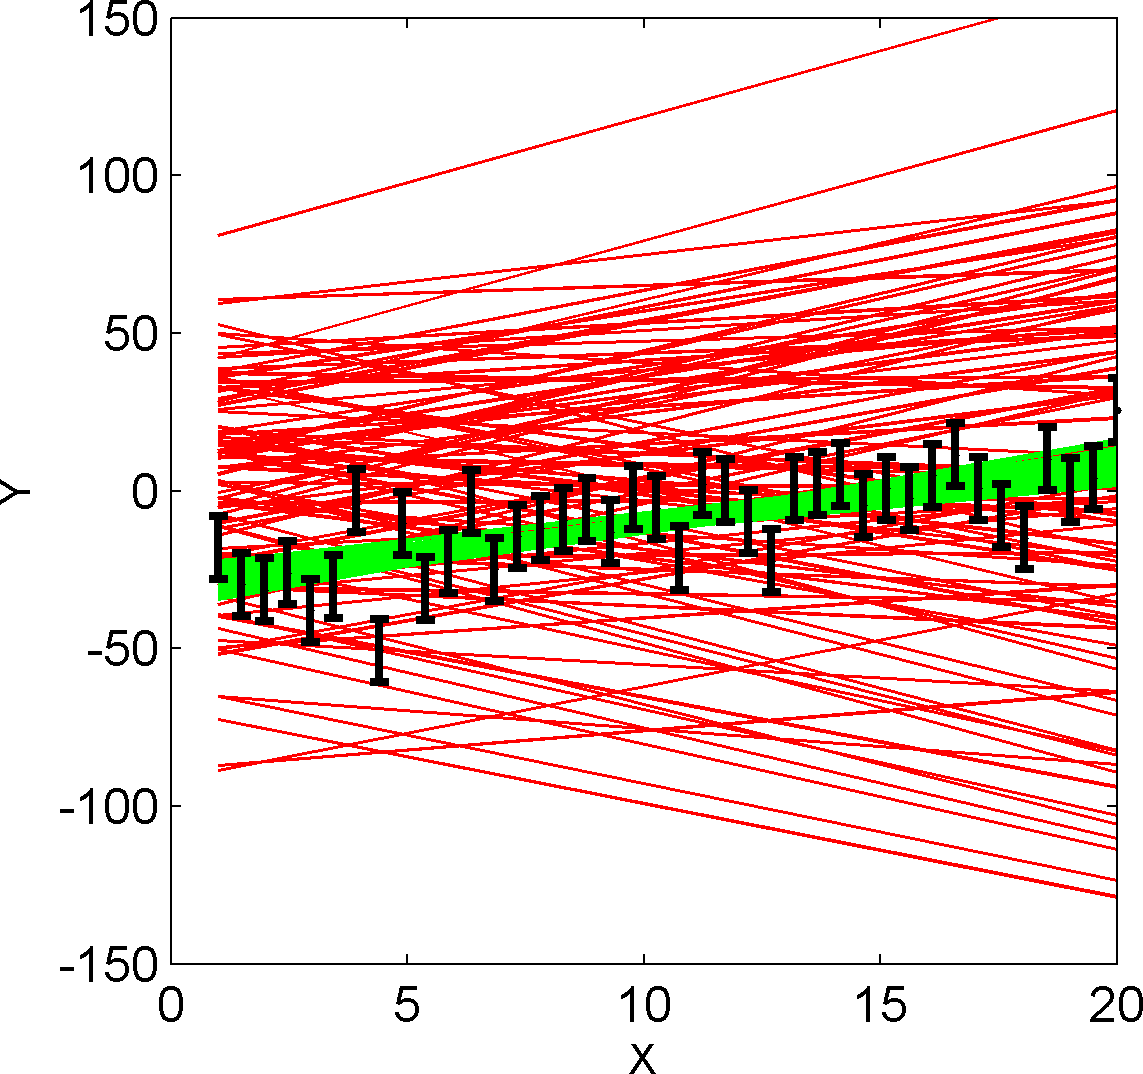
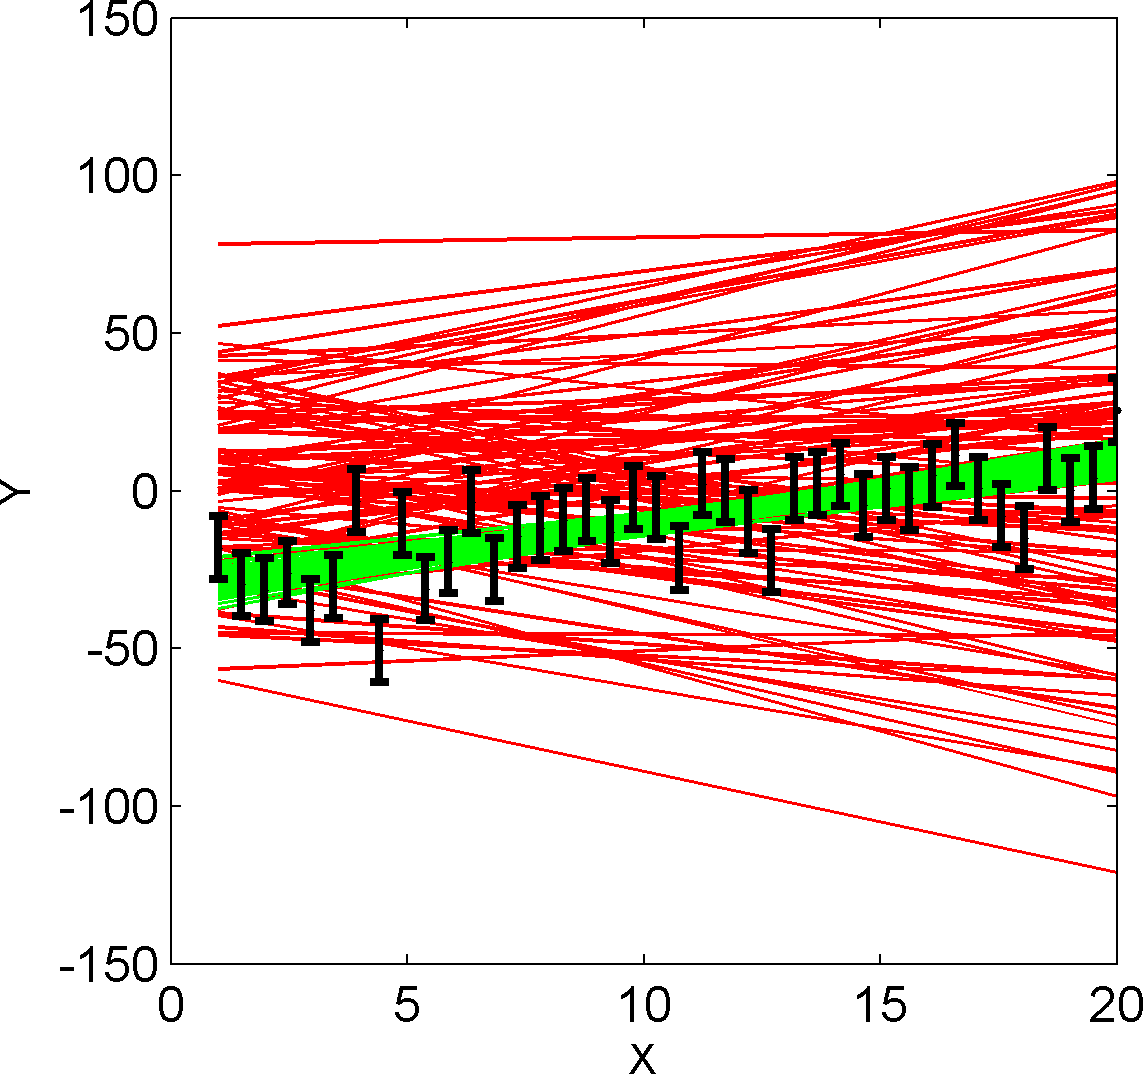
Cleaning up sippi_line_fit.m

Changed region(s): [[0.1837, 0.1536, 0.9799, 0.8296], [0.1837, 0.7067, 0.245, 0.7374]]

diff --git a/examples/case_line_fit/sippi_line_fit.m b/examples/case_line_fit/sippi_line_fit.m
@@ -1,11 +1,20 @@
-% Fiting line using SIPPI
+% sippi_linefit: Fiting straight line using SIPPI
 clear all;close all
 rand('seed',1);randn('seed',1);
 
 %% Setting up the prior model
 
-% the gradient
+
+% the intercept
 im=1;
+prior{im}.type='gaussian';
+prior{im}.name='intercept';
+prior{im}.m0=0;
+prior{im}.std=30;
+prior{im}.m_true=-30;
+
+% 1st order, the gradient
+im=2;
 prior{im}.type='gaussian';
 prior{im}.name='gradient';
 prior{im}.m0=0;
@@ -13,25 +22,15 @@ prior{im}.std=4;
 prior{im}.norm=80;
 prior{im}.m_true=2;
 
-% the intercept
-im=im+1;
-prior{im}.type='gaussian';
-prior{im}.name='intercept';
-prior{im}.m0=0;
-prior{im}.std=30;
-prior{im}.m_true=-30;
-
-prior=sippi_prior_init(prior);
-
 %% Setup the forward model in the 'forward' structure
 nd=40;
 forward.x=linspace(1,20,nd)';
 forward.forward_function='sippi_forward_linefit';
 
 %% Set up the 'data' structure
-id=1;
-m_true{1}=prior{1}.m_true;
-m_true{2}=prior{2}.m_true;
+for ip=1:length(prior);
+    m_true{ip}=prior{ip}.m_true;
+end
 d=sippi_forward_linefit(m_true,forward);
 d_obs=d{1};
 % Add noise top data
@@ -45,11 +44,10 @@ options.mcmc.i_sample=50;
 options.mcmc.i_plot=2500;
 options.txt='case_line_fit';
 
-options_anneal=options;
 [options]=sippi_metropolis(data,prior,forward,options);
 sippi_plot_prior_sample(options.txt);
 sippi_plot_posterior(options.txt);
-return
+
 %% plot some stats
 % get sample from posterior
 m1_post=load(sprintf('%s%s%s_m1.asc',options.txt,filesep,options.txt))';
@@ -59,7 +57,7 @@ m2_post=m2_post(100:end);
 % get sample prior
 N=length(m1_post);
 for i=1:1:N
-    m=sippi_prior(prior);
+    [m,prior]=sippi_prior(prior);
     m1_prior(i)=m{1};
     m2_prior(i)=m{2};
 end  
@@ -76,36 +74,31 @@ ppp(8,8,12)
 axis(ax);print_mul('sippi_line_fit_data')
 
 for i=ceil(linspace(1,N,100))
-    plot(x1,m1_prior(i).*x1+m2_prior(i),'r-','linewidth',.8);
+    plot(x1,m2_prior(i).*x1+m1_prior(i),'r-','linewidth',.8);
 end
 errorbar(forward.x,data{1}.d_obs,ones(size(forward.x)).*data{1}.d_std,'k.','linewidth',2)
 axis(ax);print_mul('sippi_line_fit_data_prior')
 
 for i=ceil(linspace(1,N,100))
-    plot(x1,m1_post(i).*x1+m2_post(i),'g-','linewidth',.8);
+    plot(x1,m2_post(i).*x1+m1_post(i),'g-','linewidth',.8);
 end
 errorbar(forward.x,data{1}.d_obs,ones(size(forward.x)).*data{1}.d_std,'k.','linewidth',2)
 hold off
 print_mul('sippi_line_fit')
 
+return
 %%
 try;close(2);end;figure(2);clf;set_paper('portrait');
 plot(m1_prior,m2_prior,'r.','MarkerSize',6)
 hold on
 plot(m1_post,m2_post,'g.','MarkerSize',14)
 plot(prior{1}.m_true,prior{2}.m_true,'b.','MarkerSize',24);
-try
-    plot(options_anneal.mcmc.m_current{1},options_anneal.mcmc.m_current{2},'k.','MarkerSize',12)
-    plot(options_anneal.mcmc.m_current{1},options_anneal.mcmc.m_current{2},'w.','MarkerSize',8)
-end
 hold off
 xlabel('Gradient')
 ylabel('Intercept')
-legend('A priori, \rho','A posteriori, \sigma','true model','Annealing')
+legend('A priori, \rho','A posteriori, \sigma','true model')
 ppp(8,8,12)
 print_mul('sippi_line_fit_cross')
-
-
 
 %%
 for i=1:length(m1_post);
@@ -161,20 +154,4 @@ xlabel('log(Likelihood)')
 ylabel('Count (#)')
 set(gca,'xlim',[hx(1) hx(length(hx))])
 print_mul('sippi_line_fit_cross_metro_rejection')
-
-%% ANNEALING
-options_anneal.txt='case_line_fit_anneal';
-options_anneal.mcmc.nite=2000;
-options_anneal.mcmc.anneal.i_begin=1; % default, iteration number when annealing begins
-options_anneal.mcmc.anneal.i_end=options.mcmc.nite; %  iteration number when annealing begins
-options_anneal.mcmc.anneal.fac_begin=1; % default, noise is scaled by fac_begin at iteration i_begin
-options_anneal.mcmc.anneal.fac_end=.00001; % default, noise is scaled by fac_end at iteration i_end
- 
- 
-[options_anneal]=sippi_metropolis(data,prior,forward,options_anneal);
-
-for i=1:length(prior);
-disp(sprintf('%s ref=%g, optimal=%g ',prior{i}.name,prior{i}.m_true,options_anneal.mcmc.m_current{i}))
-end
-
 

diff --git a/examples/case_line_fit/sippi_line_fit_2nd_order.m b/examples/case_line_fit/sippi_line_fit_2nd_order.m
@@ -1,4 +1,4 @@
-% Fiting line using SIPPI, simulated annealing
+% sippi_linefit_2nd_order: Fiting line using SIPPI
 clear all;close all
 rand('seed',1);randn('seed',1);
 
@@ -30,7 +30,6 @@ prior{im}.std=1;
 prior{im}.norm=80;
 prior{im}.m_true=.9;
 
-
 %% Setup the forward model in the 'forward' structure
 nd=40;
 forward.x=linspace(1,20,nd)';
@@ -48,19 +47,11 @@ data{1}.d_obs=d_obs+randn(size(d_obs)).*data{1}.d_std;
 
 %% Perform extended Metropolis sampling 
 % set some MCMC options.
-options.mcmc.nite=2000;
-options.mcmc.i_plot=300;
-options.txt='case_line_fit';
+options.mcmc.nite=40000;
+options.mcmc.i_sample=50;
+options.mcmc.i_plot=2500;
+options.txt='case_line_fit_2nd_order';
 
-    
-%options.mcmc.anneal.i_begin=1; % default, iteration number when annealing begins
-options.mcmc.anneal.i_end=options.mcmc.nite; %  iteration number when annealing begins
-options.mcmc.anneal.fac_begin=2; % default, noise is scaled by fac_begin at iteration i_begin
-options.mcmc.anneal.fac_end=.01; % default, noise is scaled by fac_end at iteration i_end
- 
- 
 [options]=sippi_metropolis(data,prior,forward,options);
-
-for i=1:length(prior);
-    disp(sprintf('%s ref=%g, optimal=%g ',prior{i}.name,prior{i}.m_true,options.mcmc.m_current{i}))
-end
+sippi_plot_prior_sample(options.txt);
+sippi_plot_posterior(options.txt);

diff --git a/examples/case_line_fit/sippi_forward_linefit.m b/examples/case_line_fit/sippi_forward_linefit.m
@@ -5,9 +5,9 @@
 function [d,forward,prior,data]=sippi_forward_linefit(m,forward,prior,data);
 
 if length(m)==1;
-    d{1}=forward.x*m{1};
+    d{1}=m{1};
 elseif length(m)==2;
-    d{1}=forward.x*m{1}+m{2};
+    d{1}=forward.x*m{2}+m{1};
 else
-    d{1}=forward.x.^2*m{1}+forward.x*m{2}+m{3};
+    d{1}=forward.x.^2*m{3}+forward.x*m{2}+m{1};
 end
